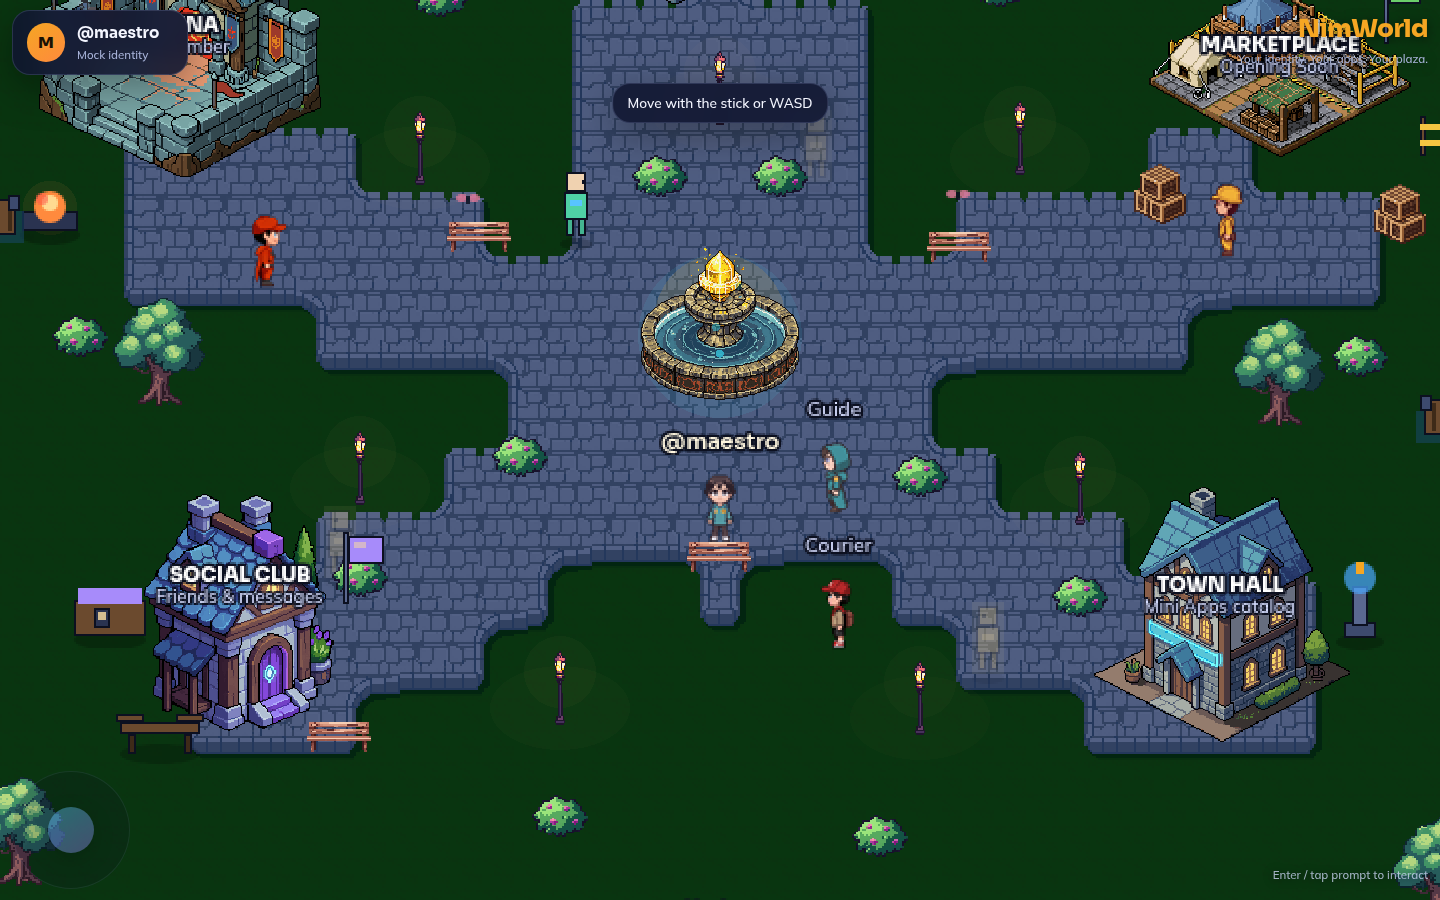
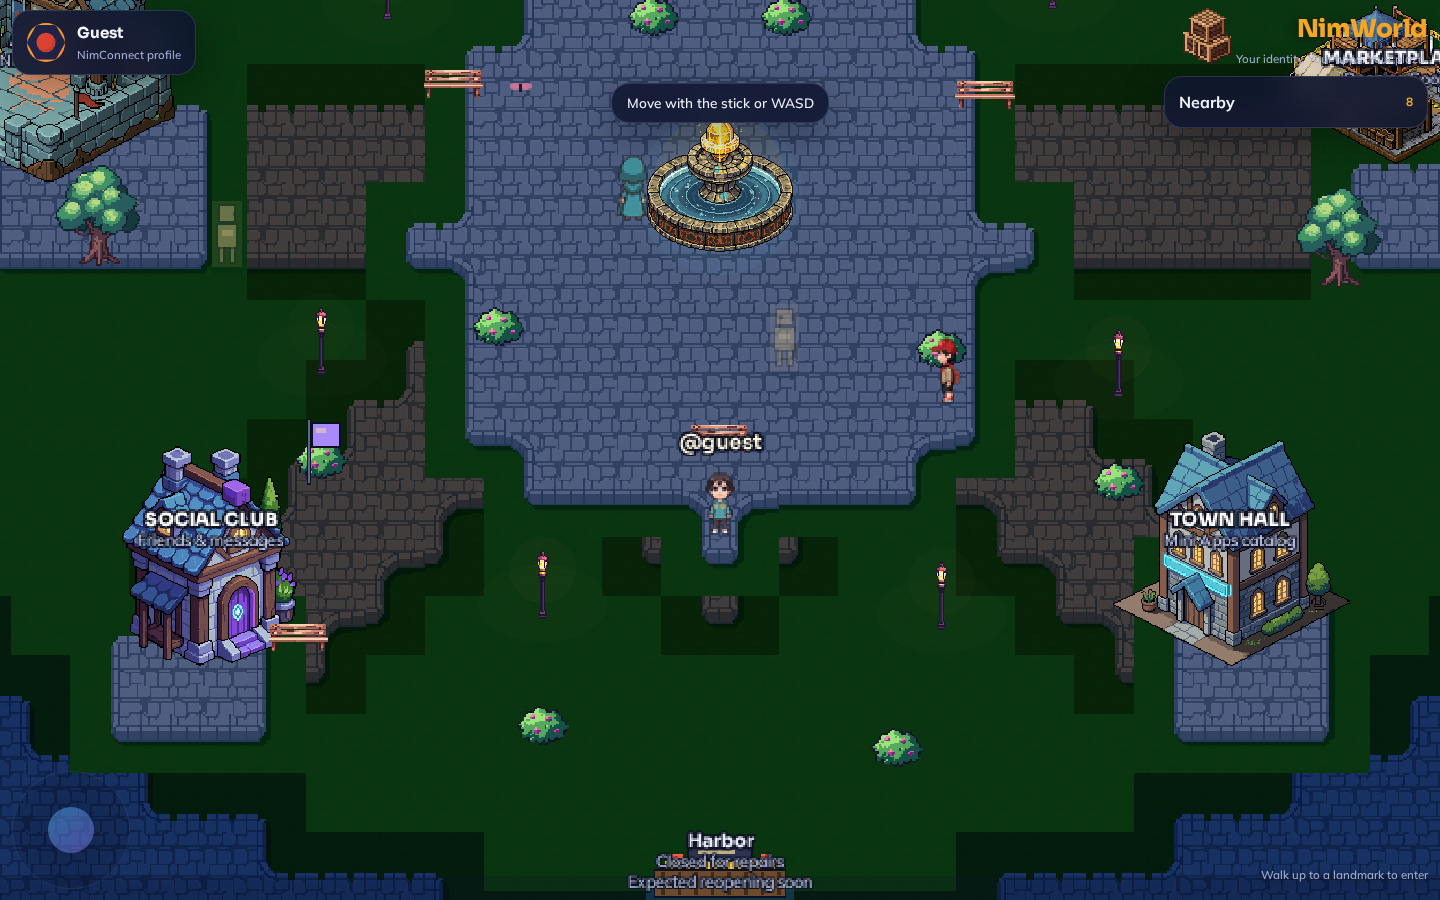
feat(web): render water/path/stone terrain layers with canal collision
Four Wang layers share one tileset with placeholder tints until C2 brings
real art: an opaque grass base plus transparent water, path, and stone
overlays. Upper layers blank their full-grass tiles to -1 so they do not
occlude each other.

The ad-hoc rim water images are replaced by real water terrain that blocks
movement; animateWater and rectBand go with them.

diff --git a/apps/web/src/game/scenes/PlazaScene.ts b/apps/web/src/game/scenes/PlazaScene.ts
@@ -19,9 +19,17 @@ import {
   type PlazaLocation,
 } from '@/game/world/locations'
 import { TERRAIN_TILESET_KEY } from '@/game/assets/loadTerrainTileset'
+import { ARRAY_FULL_GRASS } from '@/game/world/terrainTopology'
 import { buildPlazaTerrainGrid } from '@/game/world/plazaTerrainMap'
-import { resolveTerrainLayer } from '@/game/world/terrainResolver'
-import { TERRAIN_TILE } from '@/game/world/terrainTypes'
+import { resolveTerrainLayer, type CellPredicate } from '@/game/world/terrainResolver'
+import {
+  TERRAIN_TILE,
+  isPath,
+  isStoneFamily,
+  isWater,
+  type TerrainCell,
+} from '@/game/world/terrainTypes'
+import { buildBlockingRects } from '@/game/world/terrainCollision'
 import { getLocationToAutoOpen } from '@/game/world/locationEntry'
 
 export interface PlazaSceneData {
@@ -63,7 +71,7 @@ export class PlazaScene extends Phaser.Scene {
   private unsubUi: (() => boolean) | null = null
   private readonly speed = 155
   private hasMoved = false
-  private waterTiles: Phaser.GameObjects.Image[] = []
+  private terrainGrid: TerrainCell[][] = []
   private flags: Phaser.GameObjects.Image[] = []
   private trees: Phaser.GameObjects.Image[] = []
 
@@ -195,44 +203,62 @@ export class PlazaScene extends Phaser.Scene {
   private paintEnvironment() {
     // Opaque Wang terrain covering all cells (grass + stone transitions).
     // Phaser ARRAY_2D: empty is -1 only; index 0 is a real sheet frame (firstgid 0).
-    const indexes = resolveTerrainLayer(buildPlazaTerrainGrid())
-    const map = this.make.tilemap({
-      data: indexes,
-      tileWidth: TERRAIN_TILE,
-      tileHeight: TERRAIN_TILE,
-    })
-    const tileset = map.addTilesetImage(
-      TERRAIN_TILESET_KEY,
-      TERRAIN_TILESET_KEY,
-      TERRAIN_TILE,
-      TERRAIN_TILE,
-      0,
-      0,
-    )
-    if (!tileset) {
-      throw new Error(
-        `Plaza terrain tileset missing: expected texture key "${TERRAIN_TILESET_KEY}" (preload loadTerrainTileset?)`,
-      )
-    }
-    const layer = map.createLayer(0, tileset, 0, 0)
-    if (!layer) {
-      throw new Error(
-        `Plaza terrain TilemapLayer failed to create for tileset "${TERRAIN_TILESET_KEY}"`,
-      )
-    }
-    layer.setDepth(0)
+    this.terrainGrid = buildPlazaTerrainGrid()
 
-    // Rim water only (ponds / channels) — not a solid frame everywhere
-    const waterBand = [
-      ...this.rectBand(0, 0, WORLD.width, 40),
-      ...this.rectBand(0, WORLD.height - 48, WORLD.width, 48),
-      ...this.rectBand(0, 40, 40, WORLD.height - 88),
-      ...this.rectBand(WORLD.width - 40, 40, 40, WORLD.height - 88),
-    ]
-    for (const [x, y] of waterBand) {
-      const tile = this.add.image(x, y, 'tile-water').setDepth(1)
-      this.waterTiles.push(tile)
+    /**
+     * Every Wang layer is opaque — it paints the lower terrain wherever the
+     * upper one is absent — so stacked layers would occlude each other.
+     * Layers above the base blank their full-lower tiles to -1 (Phaser's only
+     * "empty" index) and show through. Transition tiles still carry a little
+     * grass, which is why the canal sits well clear of the paved area.
+     */
+    const makeWangLayer = (isUpper: CellPredicate, depth: number, opaque = false) => {
+      const indexes = resolveTerrainLayer(this.terrainGrid, isUpper)
+      const data = opaque
+        ? indexes
+        : indexes.map((row) => row.map((i) => (i === ARRAY_FULL_GRASS ? -1 : i)))
+      const map = this.make.tilemap({
+        data,
+        tileWidth: TERRAIN_TILE,
+        tileHeight: TERRAIN_TILE,
+      })
+      const tileset = map.addTilesetImage(
+        TERRAIN_TILESET_KEY,
+        TERRAIN_TILESET_KEY,
+        TERRAIN_TILE,
+        TERRAIN_TILE,
+        0,
+        0,
+      )
+      if (!tileset) {
+        throw new Error(
+          `Plaza terrain tileset missing: expected texture key "${TERRAIN_TILESET_KEY}" (preload loadTerrainTileset?)`,
+        )
+      }
+      const layer = map.createLayer(0, tileset, 0, 0)
+      if (!layer) {
+        throw new Error(
+          `Plaza terrain TilemapLayer failed to create for tileset "${TERRAIN_TILESET_KEY}"`,
+        )
+      }
+      layer.setDepth(depth)
+      return layer
     }
+
+    // Painter order: water below, then path, then stone on top.
+    // ponytail: C1 renders all three layers from the single existing stone
+    // tileset, tinted. C2 swaps in the real water and path tilesets.
+    // Opaque grass base, then transparent overlays bottom-up. The base exists
+    // because a tint applies to a whole layer — folding grass into the water
+    // layer would dye the grass blue.
+    // ponytail: C1 draws all four layers from the one existing stone tileset,
+    // tinted. C2 swaps in the real water and path tilesets and drops the tints.
+    // Tints are multiplies over blue-grey stone, so they can only darken —
+    // hence the high-luminance path tint rather than a literal sand colour.
+    makeWangLayer(() => false, 0, true)
+    makeWangLayer(isWater, 0.1).setTint(0x4a86c4)
+    makeWangLayer(isPath, 0.2).setTint(0xd4a878)
+    makeWangLayer(isStoneFamily, 0.3)
 
     // Soft blue-hour vignette
     const fog = this.add.graphics().setDepth(4)
@@ -243,16 +269,6 @@ export class PlazaScene extends Phaser.Scene {
     fog.fillStyle(0x0b1228, 0.12)
     fog.fillRect(0, 0, 48, WORLD.height)
     fog.fillRect(WORLD.width - 48, 0, 48, WORLD.height)
-  }
-
-  private rectBand(x: number, y: number, w: number, h: number) {
-    const pts: Array<[number, number]> = []
-    for (let yy = y; yy < y + h; yy += 32) {
-      for (let xx = x; xx < x + w; xx += 32) {
-        pts.push([xx + 16, yy + 16])
-      }
-    }
-    return pts
   }
 
   private placeDecor() {
@@ -600,6 +616,23 @@ export class PlazaScene extends Phaser.Scene {
       walls.add(body)
     }
     this.physics.add.collider(this.player.sprite, walls)
+
+    // Impassable terrain (the canal). Run-merged so the ring costs tens of
+    // bodies, not hundreds.
+    const blocking = this.physics.add.staticGroup()
+    for (const rect of buildBlockingRects(this.terrainGrid)) {
+      const body = this.add.rectangle(
+        rect.x + rect.width / 2,
+        rect.y + rect.height / 2,
+        rect.width,
+        rect.height,
+        0x000000,
+        0,
+      )
+      this.physics.add.existing(body, true)
+      blocking.add(body)
+    }
+    this.physics.add.collider(this.player.sprite, blocking)
   }
 
   private handleUi(command: UiCommand) {
@@ -663,7 +696,6 @@ export class PlazaScene extends Phaser.Scene {
     this.updateProximity()
     this.updateAmbient()
     this.updateLabels()
-    this.animateWater()
   }
 
   private updateProximity() {
@@ -804,14 +836,6 @@ export class PlazaScene extends Phaser.Scene {
       } else {
         actor.label.setAlpha(0)
       }
-    }
-  }
-
-  private animateWater() {
-    const t = this.time.now / 400
-    for (let i = 0; i < this.waterTiles.length; i++) {
-      const tile = this.waterTiles[i]!
-      tile.setAlpha(0.85 + Math.sin(t + i * 0.35) * 0.08)
     }
   }
 
